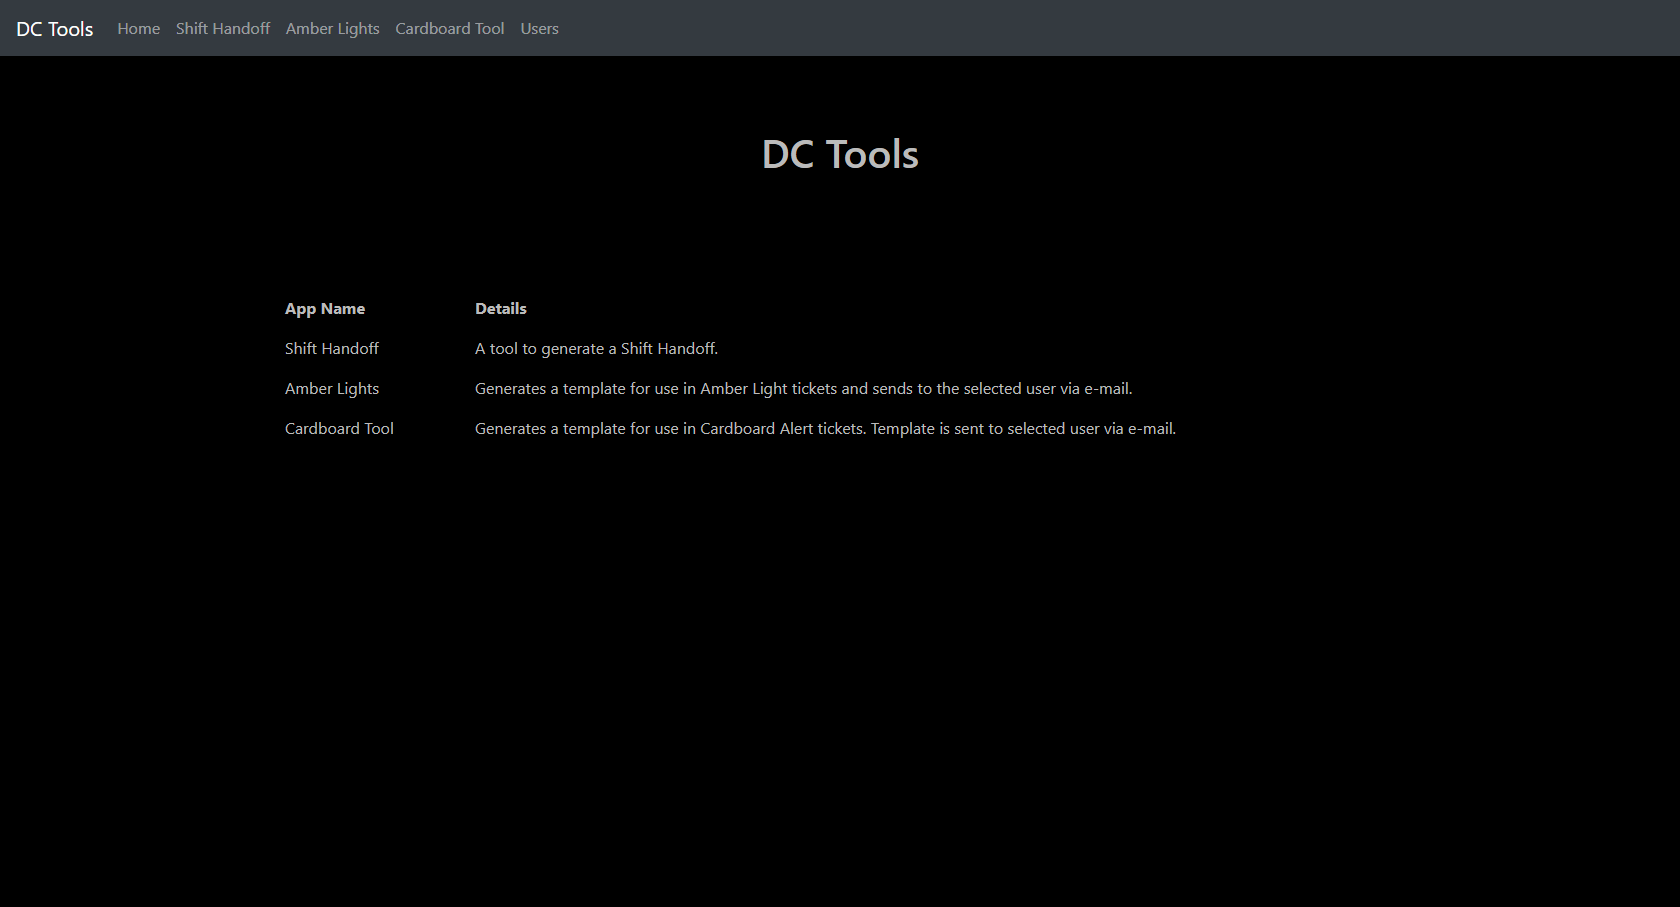
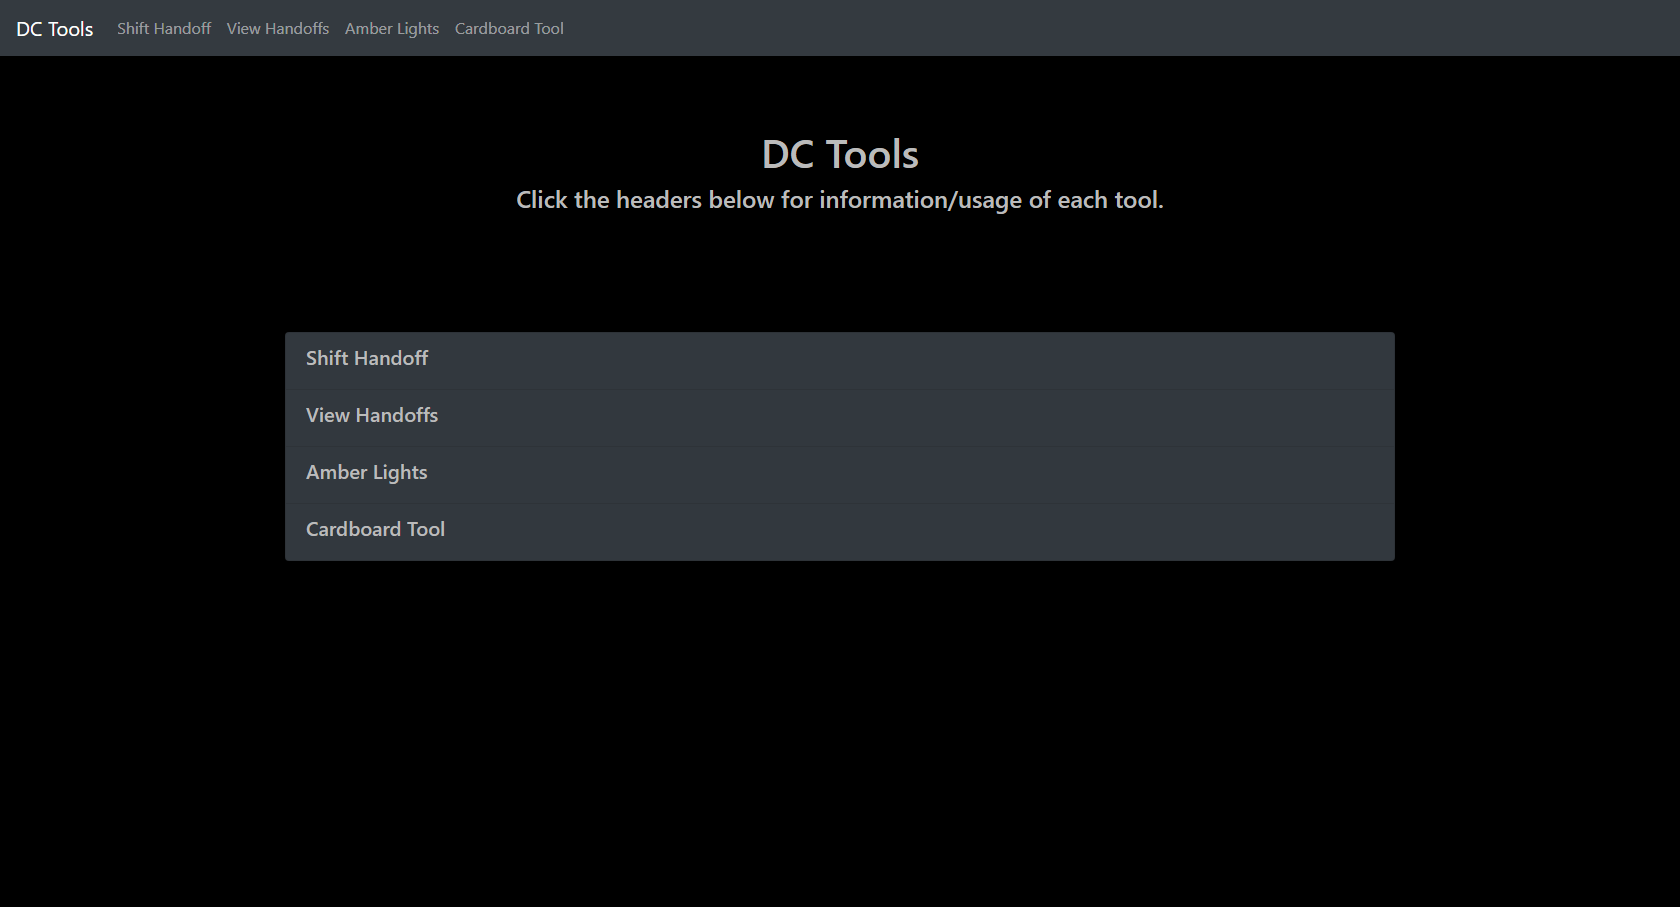
Updating readme

Changed region(s): [[0.1548, 0.3396, 0.8357, 0.6174], [0.3095, 0.2161, 0.681, 0.247], [0.0619, 0.0, 0.3405, 0.0617]]

diff --git a/README.md b/README.md
@@ -1,25 +1,36 @@
 # dcTools - [Heroku](https://dctools.herokuapp.com/)
 
 ## Introduction
-dcTools is a collection of tools created to provide better QoL for certain tasks.  The first version was written with HTML, CSS, JavaScript/jQuery, and PHP.  This new version was created using the MERN stack to practice and improve my skills.
+dcTools is a collection of tools created to provide better QoL for certain tasks for Data Center Technicians.  The first version was written with HTML, CSS, JavaScript/jQuery, and PHP.  
 
 ## Technologies Used
-- NodeJS
-- ReactJS
+- MongoDB
+  - Mongoose
+- Node
+  - Express
+  - Axios
+- React
   - react-bootstrap
   - react-router-dom
-- axios
-- bcrypt
-- dotenv
-- mongoose
 
-<!-- 
-## Images
+
+## Pages
 ### Home
 ![Home Page](/imgs/home.png)
-![Shift Handoff](/imgs/home.png)
-![Amber Lights](/imgs/home.png)
+Contains descriptions/usage for each of the pages.
+
+### Shift Handoff
+![Shift Handoff](/imgs/handoff.png)
+Users can can use this to enter the items they have worked on throughout their shift.  Clicking the "Show Preview" Button will display the Shift Handoff template with the contents of each item that the user has listed.
+
+![Handoff_Preview](/imgs/handoff_preview.png)
+The user can then click "Send Report" to save their completed handoff to the database.  The application will then copy the handoff to the clipboard, and open a new email using the user's default email client.  The Handoff can then be pasted into the email body, and sent to any recipient.
+
+
+### Amber Lights
+![Amber Lights](/imgs/amber.png)
+Periodically, the Data Center Technician is to check servers in the Data Center for Amber Lights, which typically indicate an active issue with the server.  The customer is then contacted via ticket if any are found.  This tool provides a simple form that accepts user input and stores it to the database.  The user can then recall the data, in template form, to be sent to the customer via their ticketing system.
+
+
 ![Cardboard Tool](/imgs/home.png)
-
-
-![site image](/readme_files/site.png) -->
+This tool has roughly the same functionality as the Amber Light tool.  Every so often, the Data Center is to be audited for combustible materials stored in the cabinets.  This tool provides a way to store the information for any offending cabinets, and allows the user to recall the information in template form, which can then be sent to the customer via a ticket.
